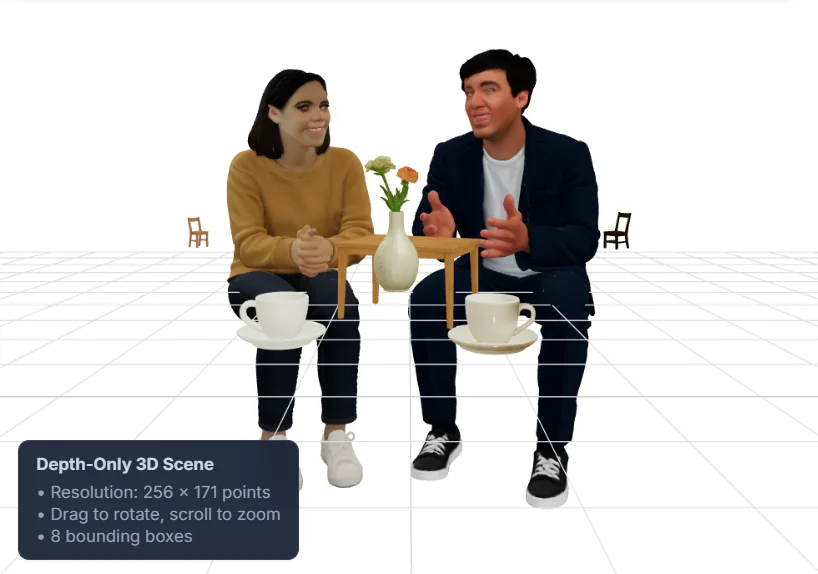
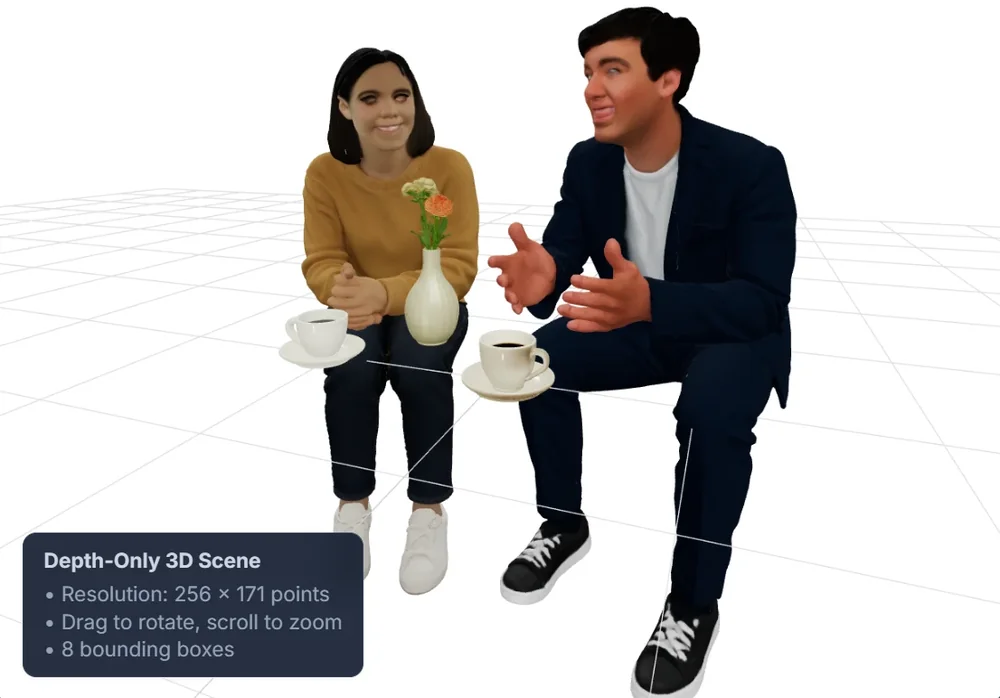
README: scene image with perspective placement and orientation
Replace the scene screenshot with the current result (perspective placement,
far/near ratio 1.5, orientation estimation; people, vase and cups) and update
the walkthrough text and caption (EN/JP).

Claude-Session: https://claude.ai/code/session_017F2L64VSaLMVjz2Lii7x6Z

Changed region(s): [[0.0, 0.0, 1.0, 1.0], [0.0, 0.4739, 0.1528, 0.5035]]

diff --git a/README.md b/README.md
@@ -36,7 +36,7 @@ The sample photo [`samples/two-people-at-table.webp`](samples/two-people-at-tabl
 
 ### Walkthrough (sample photo)
 
-Results with OpenAI (detection and completion) and TRELLIS.2 (3D generation). The scene below uses orientation estimation and the paper's placement (without the perspective size correction).
+Results with OpenAI (detection and completion) and TRELLIS.2 (3D generation). The scene uses perspective placement (far/near ratio 1.5) and orientation estimation.
 
 <table>
   <tr>
@@ -49,7 +49,7 @@ Results with OpenAI (detection and completion) and TRELLIS.2 (3D generation). Th
   </tr>
   <tr>
     <td width="50%"><img src="docs/images/step5-depth-map.webp" alt="Depth map"><br><sub><b>5. Depth estimation</b> — Depth Anything V2 (brighter = nearer)</sub></td>
-    <td width="50%"><img src="docs/images/scene-result.webp" alt="3D scene"><br><sub><b>7–8. Scene composition and orientation</b> — all 8 models placed at the depth of their PC Boxes and rotated by their estimated orientation</sub></td>
+    <td width="50%"><img src="docs/images/scene-result.webp" alt="3D scene"><br><sub><b>7–8. Scene composition and orientation</b> — people, vase and cups placed with perspective at the depth of their PC Boxes and rotated by their estimated orientation (the face-to-face pose of the two people is recovered)</sub></td>
   </tr>
 </table>
 
